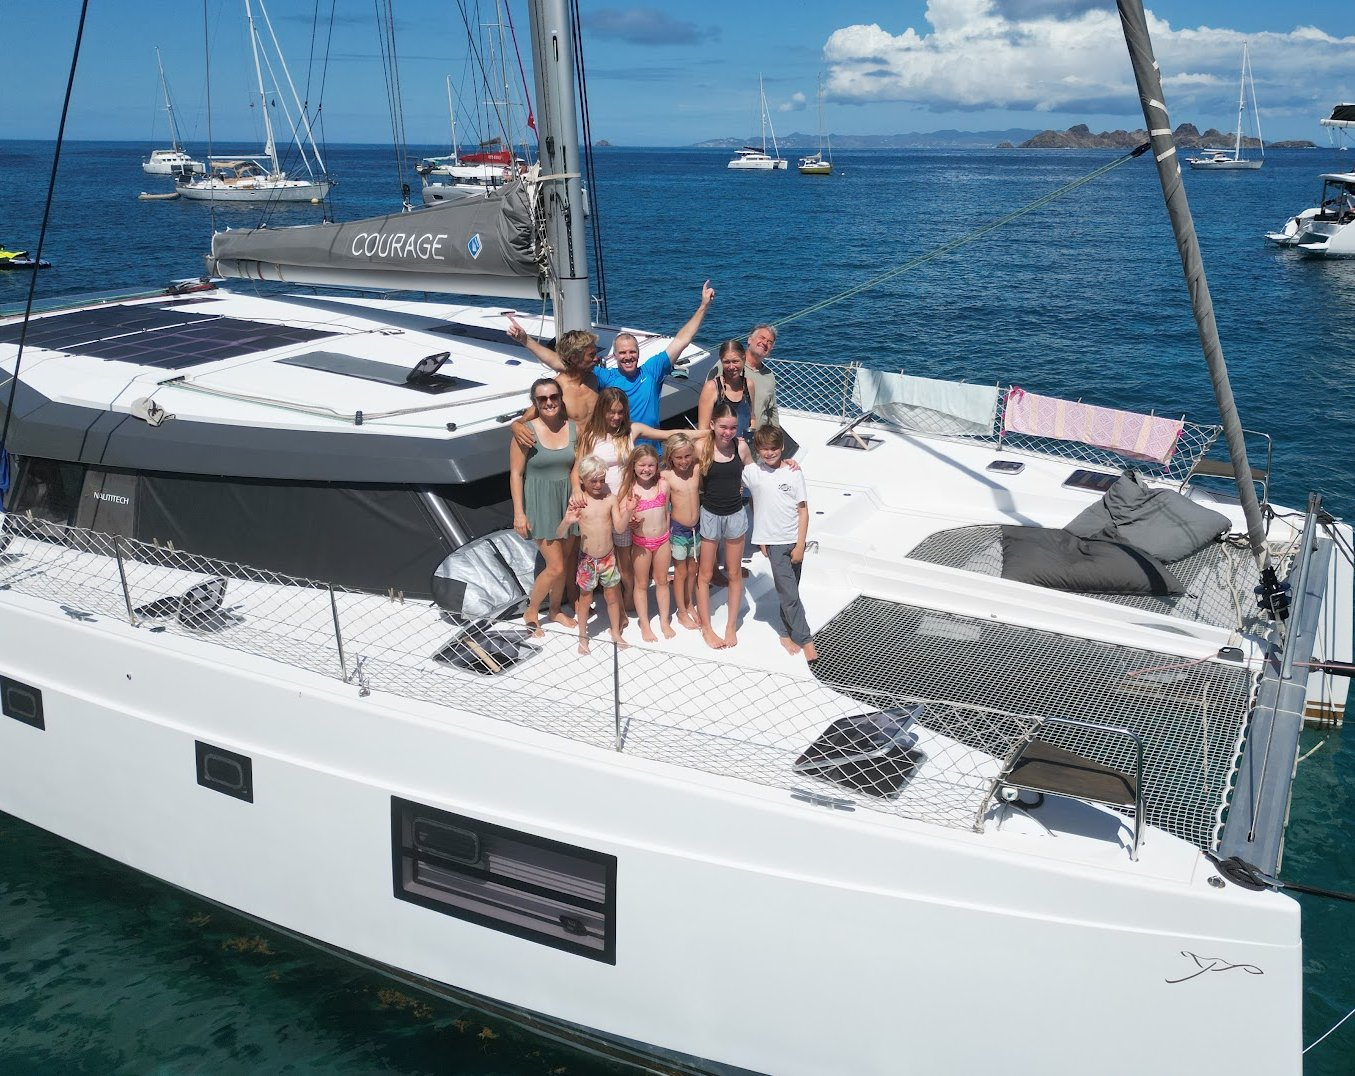
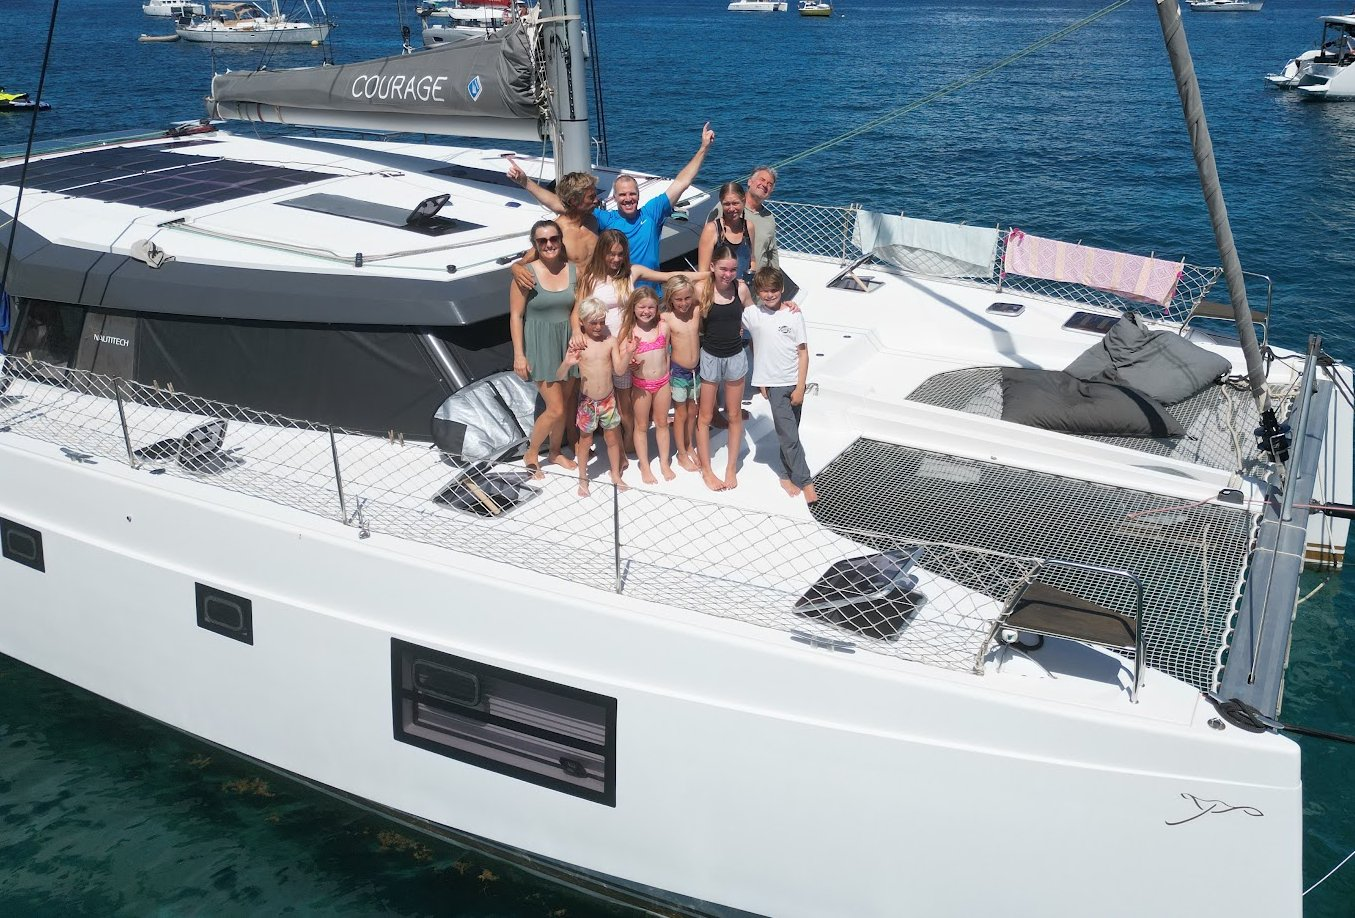
Crop Sint Maarten photo to match Spain photo aspect ratio, link both to full-size
Trimmed 158px off the top of the Sint Maarten photo so both images in
the Our Story photo pair render at matching height at equal column
width (both now ~1.476:1). Also wrapped both photos in links to their
full-resolution originals (target=_blank), matching the convention
already used for the other boat photos across the site.

diff --git a/our-story.html b/our-story.html
@@ -27,11 +27,15 @@
   <div class="section">
     <div class="photo-pair">
       <figure style="margin:0;">
-        <img class="upgrade-photo" src="assets/img/courage-spain-2023.jpg" alt="Peter with the kids aboard Courage, anchored off Spain, August 2023">
+        <a href="assets/img/courage-spain-2023.jpg" target="_blank" rel="noopener">
+          <img class="upgrade-photo" src="assets/img/courage-spain-2023.jpg" alt="Peter with the kids aboard Courage, anchored off Spain, August 2023">
+        </a>
         <figcaption class="diagram-note" style="text-align:center;">August 2023 &mdash; Spain</figcaption>
       </figure>
       <figure style="margin:0;">
-        <img class="upgrade-photo" src="assets/img/courage-sxm-2026.jpg" alt="The whole family and friends aboard Courage in Simpson Bay, Sint Maarten, April 2026">
+        <a href="assets/img/courage-sxm-2026.jpg" target="_blank" rel="noopener">
+          <img class="upgrade-photo" src="assets/img/courage-sxm-2026.jpg" alt="The whole family and friends aboard Courage in Simpson Bay, Sint Maarten, April 2026">
+        </a>
         <figcaption class="diagram-note" style="text-align:center;">April 2026 &mdash; Sint Maarten</figcaption>
       </figure>
     </div>
